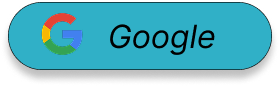
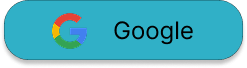
cleaned up design for google button

diff --git a/components/Signin.tsx b/components/Signin.tsx
@@ -1,4 +1,6 @@
 import React, { useState } from "react";
+
+import { LinearGradient } from 'expo-linear-gradient';
 import {
   View,
   Text,
@@ -93,32 +95,32 @@ const Signin: React.FC<SignProps> = ({ setIsSignedIn, username, setUsername }) =
         <TouchableOpacity style={styles.button} onPress={handleSignin}>
           <Text style={styles.signin}>Sign in</Text>
         </TouchableOpacity>
-        <TouchableOpacity>
+        <TouchableOpacity onPress={() => alert("Not yet implemented, Sorry.")}>
           <Text style={styles.forgotText}>Forgot Your Password?</Text>
         </TouchableOpacity>
         <Text style={styles.orText}>Or sign in with</Text>
-        <View>
-          <TouchableOpacity style={styles.googlelogobutton}>
-            <Image
-              source={require("../assets/Component1.png")}
-              style={styles.viewgoogle}
-            />
+        <View style={styles.googleview}>
+          <TouchableOpacity>
+            <Text style={styles.googletext}>
+              <Text style={{ color: "#4285F4" }}>G</Text>
+              <Text style={{ color: "#EA4335" }}>o</Text>
+              <Text style={{ color: "#FBBC05" }}>o</Text>
+              <Text style={{ color: "#4285F4" }}>g</Text>
+              <Text style={{ color: "#34A853" }}>l</Text>
+              <Text style={{ color: "#EA4335" }}>e</Text>
+            </Text>
           </TouchableOpacity>
         </View>
-        <Text>
+        <TouchableOpacity>
+          <Text style={styles.signupLink}> Continue as a guest</Text>
+        </TouchableOpacity>
+        <Text style={styles.signupview}>
           Don't have an account? Sign up{" "}
           <TouchableOpacity>
           <Text style={styles.signupLink}>Here</Text>
           </TouchableOpacity>
         </Text>
-        <View style={styles.contactcontainer}>
-        <Text>
-          Need Help?{"  "}
-          <TouchableOpacity>
-            <Text style={styles.contactText}>Contact Us</Text>
-          </TouchableOpacity>
-        </Text>
-        </View>
+       
       </View>
     </SafeAreaView>
   );
@@ -145,6 +147,7 @@ const styles = StyleSheet.create({
   signtext: {
     fontSize: 30,
     marginBottom: 40,
+    marginTop: 30,
     fontWeight: "bold",
     fontFamily: "arial",
     textAlign: "center",
@@ -182,6 +185,36 @@ const styles = StyleSheet.create({
     borderColor: "black",
     borderWidth: 0.5,
   },
+  googleview:{
+    flexDirection: 'row',
+    justifyContent: 'center',
+    alignItems: 'center',
+    width: "100%"
+  },
+  googleimage:{
+      width: 27,
+      height: 27,
+      position: 'absolute',
+      zIndex: 1,
+      left: 120,
+      top: 22,
+  },
+  // googlebutton:{
+  //   borderRadius: 25,
+  //   width: 100,
+  //   alignItems: 'center',
+  //   padding: 12,
+  //   borderColor: "black",
+  //   borderWidth: .5,
+  //   marginBottom: 55,
+  //   marginTop: 15,
+  // },
+  googletext:{
+    fontWeight: 'bold',
+    marginBottom: 55,
+    marginTop: 15,
+    fontSize:28,
+  },
   signin: {
     color: "black",
     fontWeight: "bold",
@@ -193,12 +226,12 @@ const styles = StyleSheet.create({
     marginTop: 20,
   },
   orText: {
-    marginTop: 20,
+    marginTop: 25,
     fontSize: 16,
   },
   googlelogobutton: {
     alignItems: "center",
-    marginVertical: 10,
+    
   },
   viewgoogle: {
     width: 120,
@@ -214,11 +247,15 @@ const styles = StyleSheet.create({
   contactcontainer:{
     flexDirection: 'row',
     verticalAlign: 'middle'
+    
   },
   contactText: {
     fontWeight: "bold",
     color: '#19a0ae',
     textDecorationLine: "underline",
+  },
+  signupview:{
+    margin: 20,
   },
 });
 
